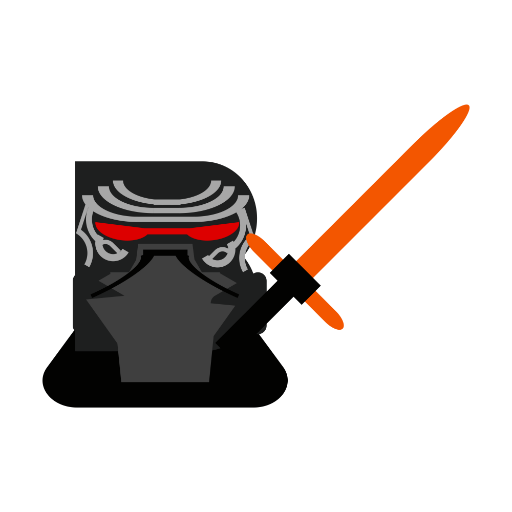
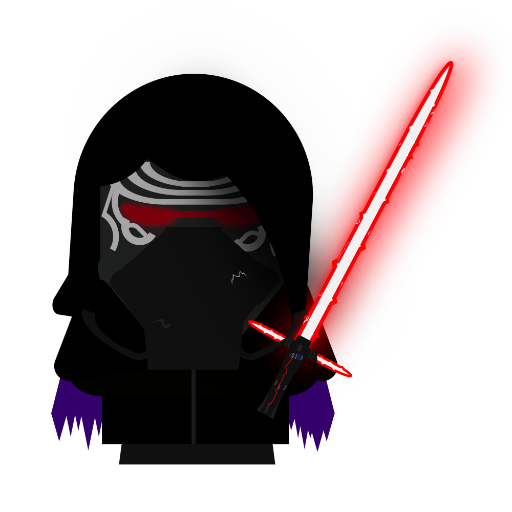
b-Ocracy v1.0.0.22 - Added Aonarchy bosses category for 2.5 times more coins but 1.25 times harder battle, changed Bylo Ken's image, changed new and featured to green text, made if statement for adding coins to fix bug for non newStats, made newStats var global *Changed b-Ocracy versions to 4 digits

diff --git a/bocracy/battle.js b/bocracy/battle.js
@@ -7,7 +7,7 @@
 		    any: function() { return (isMobile.Android() || isMobile.iOS() || isMobile.Windows()); }
 		};
 
-		var a = {
+		var newStats, a = {
 			name: '',
 			health: 0,
 			attack: 0,
@@ -60,10 +60,15 @@
 			},
 			win : function(side) {
 				if (side == 'green') {
-					var coinsEarned = bad[a.name].info[2] * 0.02;
-					if (localStorage.coins == undefined) localStorage.coins = coinsEarned;
-					else localStorage.coins = parseFloat(localStorage.coins) + coinsEarned;
-					id('overlayText').innerHTML = 'WINNER: ' + side + '!!!<br /><h5>You gained ' + coinsEarned + ' coins!</h5>';
+					if (newStats == 'true') {
+						if (current.includes('+')) { var coinsEarned = bad[a.name].info[2] * 0.05; }
+						else { var coinsEarned = bad[a.name].info[2] * 0.02; }
+						if (localStorage.coins == undefined) localStorage.coins = coinsEarned;
+						else localStorage.coins = parseFloat(localStorage.coins) + coinsEarned;
+						id('overlayText').innerHTML = 'WINNER: ' + side + '!!!<br /><h5>You gained ' + coinsEarned + ' coins!</h5>';
+					} else {
+						id('overlayText').innerHTML = 'WINNER: ' + side + '!!!';
+					}
 				} else {
 					id('overlayText').innerHTML = 'WINNER: ' + side + '!!!';
 				}
@@ -118,7 +123,7 @@
 				id('backButton').setAttribute('onclick', 'window.location="index.html"');
 			}
 
-			switch (current) {
+			switch (current.replace('+', '')) {
 				case "aonarchy":
 					newStats = 'true';
 					badNames.url = "b";
@@ -130,10 +135,10 @@
 					goodNames.url = "b";
 			}
 
-			a.name = badNames[current][Math.floor(Math.random() * badNames[current].length)];
+			a.name = badNames[current.replace('+', '')][Math.floor(Math.random() * badNames[current.replace('+', '')].length)];
 
 			// if (localStorage.hasOwnedGood != 'true') { unlock('mystery_pack'); localStorage.hasOwnedGood = 'true'; } 
-			b.name = goodNames[current][Math.floor(Math.random() * goodNames[current].length)];
+			b.name = goodNames[current.replace('+', '')][Math.floor(Math.random() * goodNames[current.replace('+', '')].length)];
 			// if (newStats == 'true') {
 			// 	while (localStorage[b.name] != 'true') {
 			// 		b.name = goodNames[current][Math.floor(Math.random() * goodNames[current].length)];
@@ -166,7 +171,13 @@
 				b.attack = good[b.name].stats[0];
 				b.heal = good[b.name].stats[2];;
 			}
-			
+			if (current.includes('+')) {
+				var stats = ['attack', 'health', 'speed', 'heal', 'orig_health'];
+				for (i = 0; i < stats.length; i++) {
+					if (stats[i] == 'speed') a.speed / 1.25;
+					else a[stats[i]] *= 1.25;
+				}
+			}
 
 			game.on = 'true';
 			setInterval('game.attack("red");game.heal("red")', a.speed);

diff --git a/bocracy/index.html b/bocracy/index.html
@@ -22,7 +22,8 @@
 		<header id="header"><div id="title" onclick="location.reload()"><font size="9">b-Ocracy</font></div></header>
 		<h3>Select a category to begin</h3>
 		<h5 id="homescreenTip"><green>Add to homescreen for best results!</green></h5>
-		<a class="full" onclick="window.location = 'battle.html#aonarchy'"><div><red>Featured: </red>Aonarchy</div></a>
+		<a class="full" onclick="window.location = 'battle.html#aonarchy+'"><div><green>New: </green>Aonarchy <red>Bosses</red></div></a>
+		<a class="full" onclick="window.location = 'battle.html#aonarchy'"><div><green>Featured: </green>Aonarchy</div></a>
 		<a onclick="window.location = 'battle.html#bocracy'"><div>bOcracy</div></a>
 		<a onclick="window.location = 'battle.html#dino'"><div>Dino</div></a>
 		<a onclick="window.location = 'battle.html#fantasy'"><div>Fantasy</div></a>
